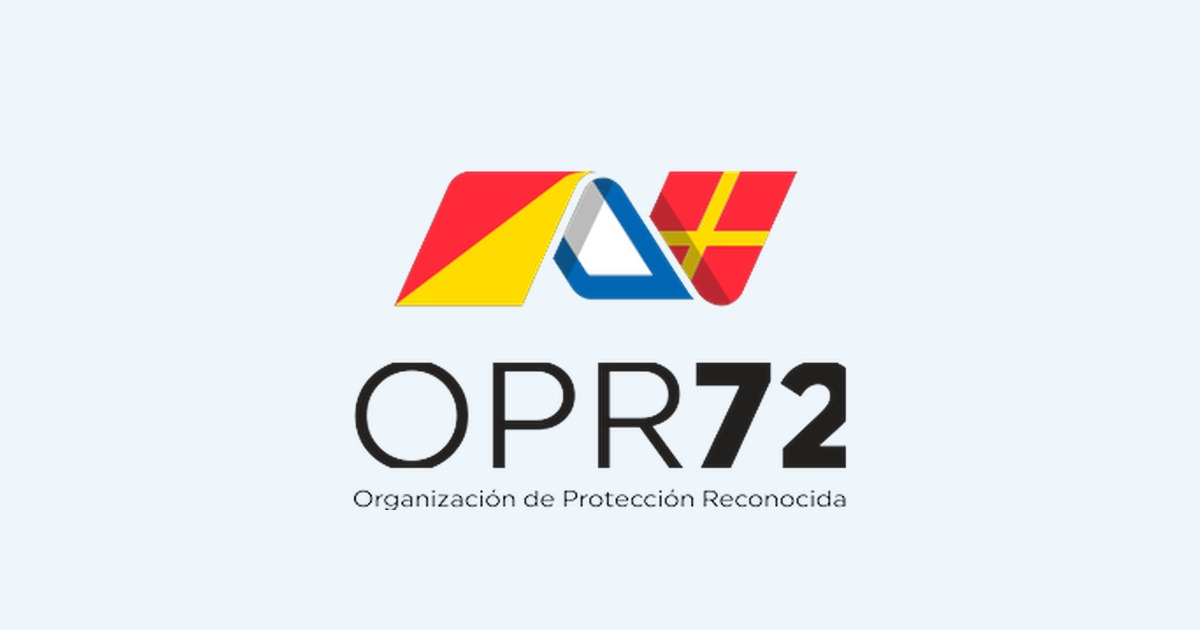
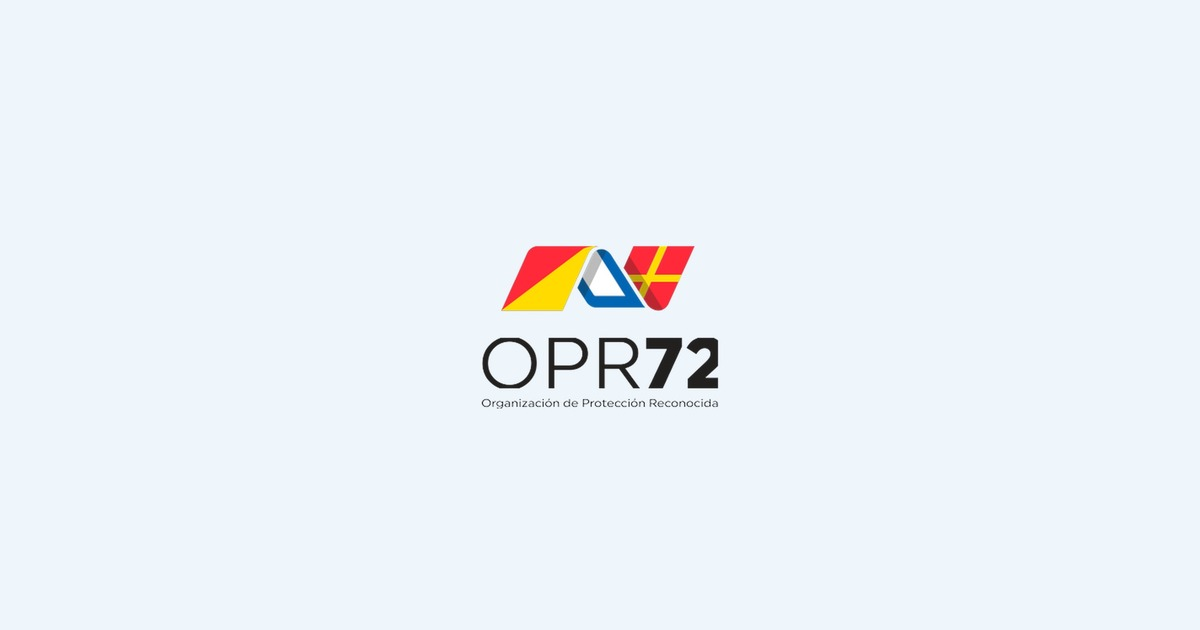
Mejoras en preview whatsapp

Changed region(s): [[0.2775, 0.2714, 0.7092, 0.754], [0.2775, 0.7841, 0.7092, 0.8143]]

diff --git a/src/app/layout.tsx b/src/app/layout.tsx
@@ -40,6 +40,8 @@ export async function generateMetadata(): Promise<Metadata> {
     const ogImage = site.openGraph?.imagen ?? "/og-image.jpg";
     const ogWidth = site.openGraph?.imagenAncho ?? 1200;
     const ogHeight = site.openGraph?.imagenAlto ?? 630;
+    const shareDescription =
+        site.openGraph?.descripcion ?? site.sitio.descripcion;
 
     return {
         metadataBase: new URL(getSiteUrl()),
@@ -47,12 +49,17 @@ export async function generateMetadata(): Promise<Metadata> {
         description: site.sitio.descripcion,
         keywords: site.sitio.palabrasClave,
         icons: {
-            icon: "/favicon.png",
-            apple: "/apple-icon-180.png",
+            icon: [
+                { url: "/favicon.png", type: "image/png", sizes: "256x256" },
+                { url: "/favicon.png", type: "image/png", sizes: "32x32" },
+            ],
+            apple: [
+                { url: "/apple-icon-180.png", sizes: "180x180", type: "image/png" },
+            ],
         },
         openGraph: {
             title: site.sitio.tituloPagina,
-            description: site.sitio.descripcion,
+            description: shareDescription,
             url: getSiteUrl(),
             siteName: site.sitio.nombre,
             locale: "es_AR",
@@ -69,7 +76,7 @@ export async function generateMetadata(): Promise<Metadata> {
         twitter: {
             card: "summary_large_image",
             title: site.sitio.tituloPagina,
-            description: site.sitio.descripcion,
+            description: shareDescription,
             images: [ogImage],
         },
     };

diff --git a/src/components/opr72/Opr72IntroScroll.tsx b/src/components/opr72/Opr72IntroScroll.tsx
@@ -20,6 +20,7 @@ type PinMetrics = {
 };
 
 const MIN_GAP_STATS_TO_HEADING = 50;
+const LG_QUERY = "(min-width: 1024px)";
 const ABOUT_LOGO_IMG_ID = "opr72-about-logo-img";
 const STATS_CONTENT_ID = "opr72-stats-content";
 const NAVBAR_ID = "opr72-navbar";
@@ -189,8 +190,9 @@ export default function Opr72IntroScroll() {
   const measure = () => {
     const reduced = window.matchMedia("(prefers-reduced-motion: reduce)")
       .matches;
+    const isLg = window.matchMedia(LG_QUERY).matches;
 
-    if (reduced) {
+    if (!isLg || reduced) {
       document.documentElement.style.removeProperty("--opr-about-pin-pt");
       document.documentElement.style.removeProperty("--opr-about-logo-mb");
       metricsRef.current = null;